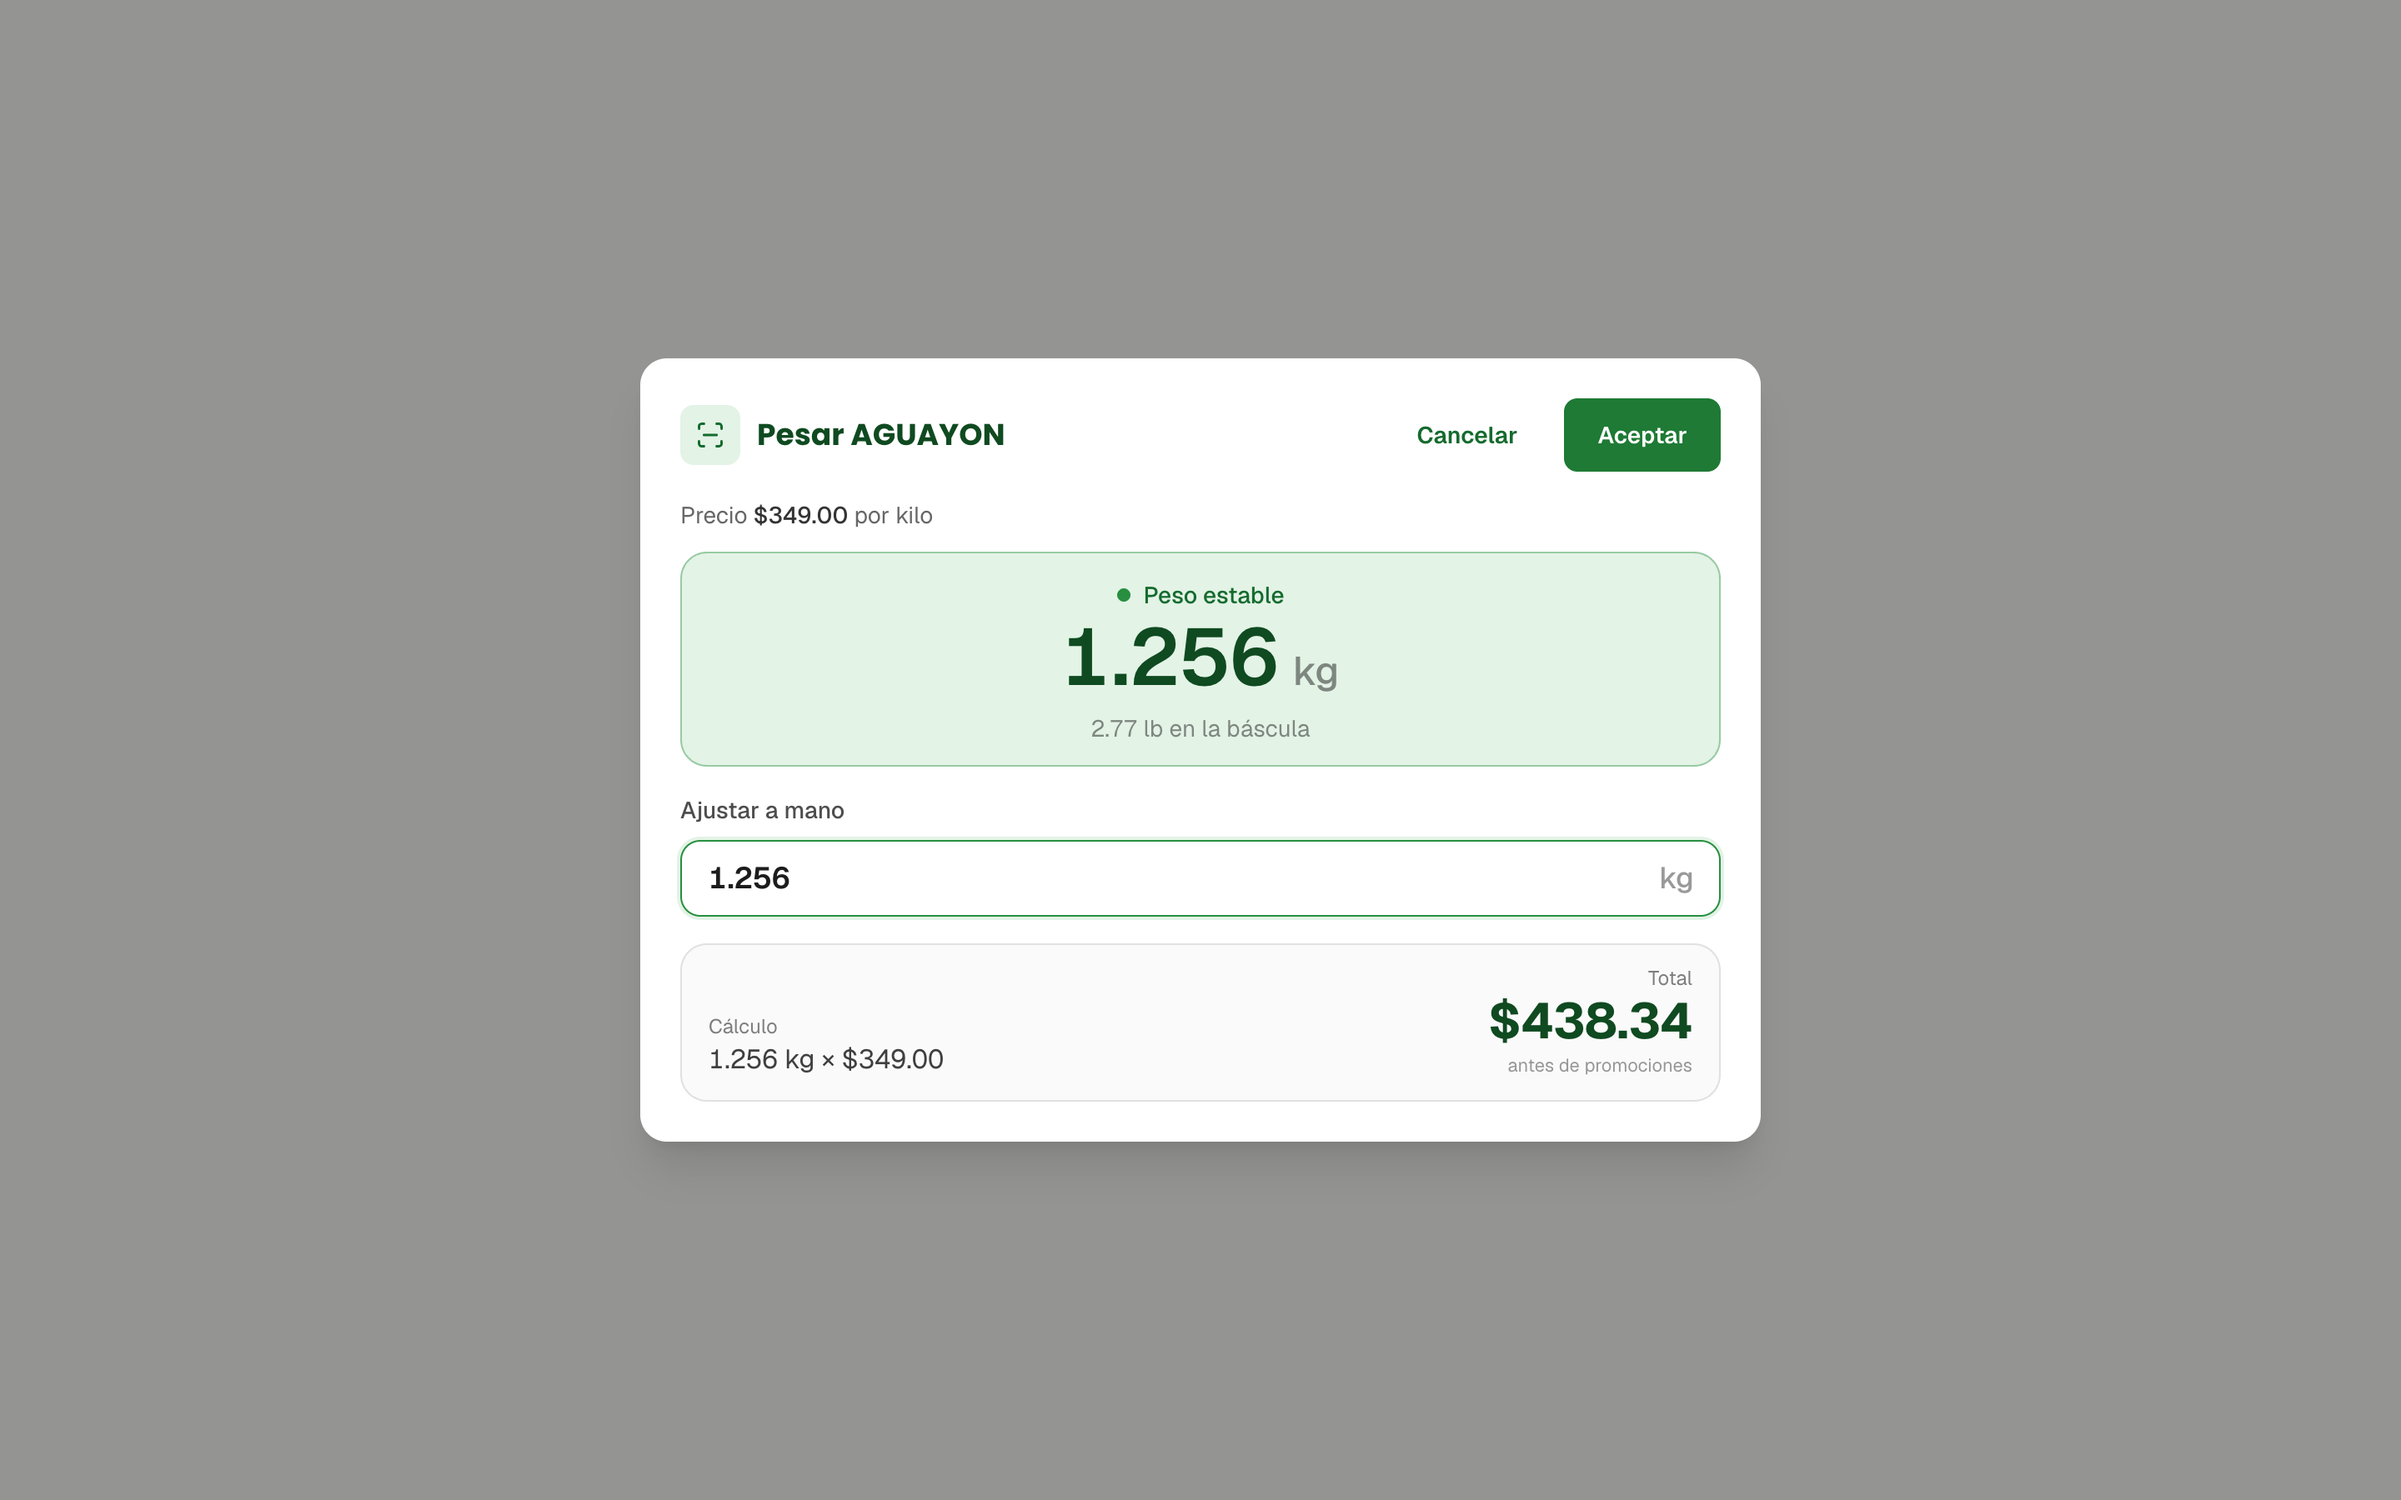
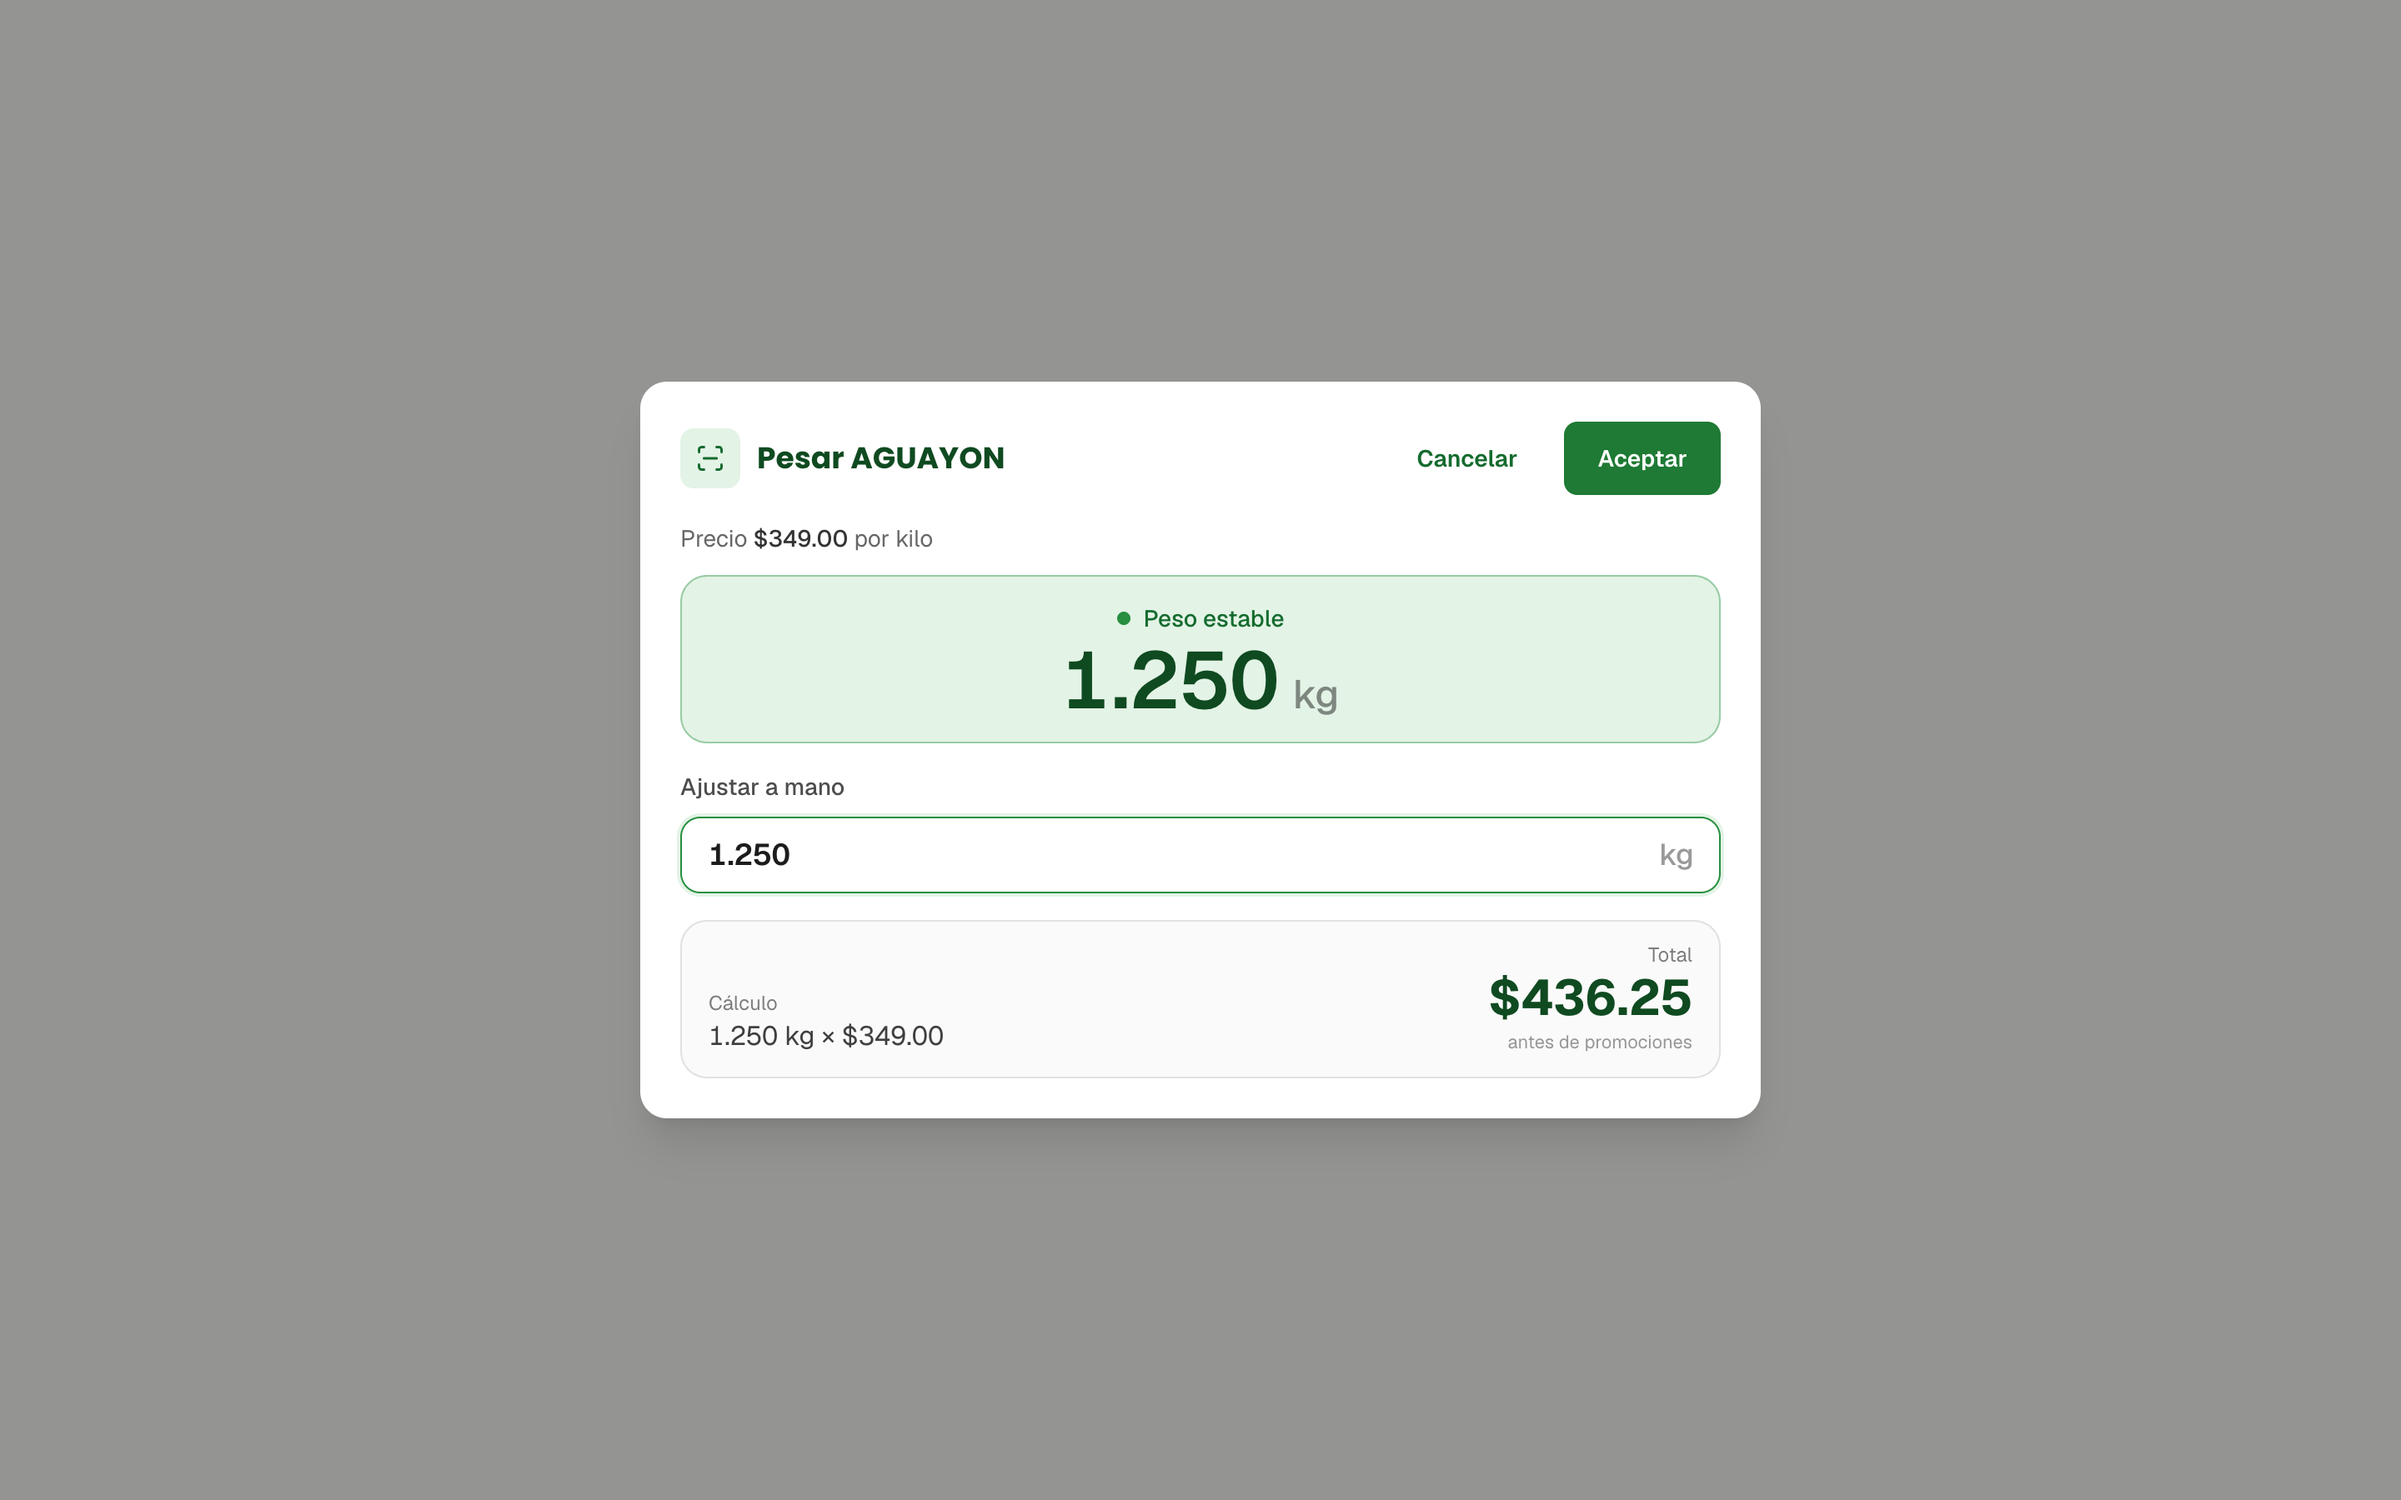
docs(presentacion): semana 11 sin conversión de libras

Changed region(s): [[0.25, 0.2178, 0.75, 0.7778]]

diff --git a/public/presentacion/semana-11.html b/public/presentacion/semana-11.html
@@ -616,15 +616,15 @@
       <div><span class="etiqueta">Semana 11 · Entrega de avances</span></div>
       <h1>La caja pesa en kilos y el ticket ya lleva la marca</h1>
       <p class="bajada">
-        Cinco puntos aplicados. El de fondo: la báscula manda libras y el sistema cobra siempre en
-        kilos, con el peso a la vista y listo para aceptar. Junto a eso, la pantalla de pesado se
+        Cinco puntos aplicados. El de fondo: el peso de la báscula aparece a la vista, en kilos
+        y listo para aceptar, y el total se calcula al instante. Junto a eso, la pantalla de pesado se
         simplificó y el ticket térmico ya lleva el logo de Mercados Titos, con un ticket de prueba
         para revisar la impresora.
       </p>
 
       <div class="metricas">
         <div class="metrica"><strong>5</strong><span>Puntos atendidos</span></div>
-        <div class="metrica"><strong>4</strong><span>Pantallas de ejemplo</span></div>
+        <div class="metrica"><strong>3</strong><span>Pantallas de ejemplo</span></div>
         <div class="metrica"><strong>3</strong><span>Pendientes por cerrar</span></div>
         <div class="metrica"><strong>0</strong><span>Puntos en pausa</span></div>
       </div>
@@ -644,8 +644,8 @@
       <div class="tarjetas">
         <article class="tarjeta revelar">
           <span class="icono"><svg width="22" height="22" viewBox="0 0 24 24" fill="none" stroke="currentColor" stroke-width="2" stroke-linecap="round" stroke-linejoin="round">M12 3v18M5 8l7-5 7 5M4 21h16</svg></span>
-          <h3>Siempre en kilos</h3>
-          <p>La báscula reporta libras y el sistema las convierte solo: 2.77 lb son 1.256 kg. El cobro y el ticket siempre van en kilos.</p>
+          <h3>Todo en kilos</h3>
+          <p>El peso, el cálculo y el ticket van en kilos con tres decimales: ya no hay que elegir unidad ni hacer cuentas aparte.</p>
         </article>
 
         <article class="tarjeta revelar">
@@ -679,10 +679,10 @@
       <div class="interior">
         <div class="encabezado revelar">
           <span class="numero">02 · El cambio de fondo</span>
-          <h2>Se pesa una vez y se cobra siempre en kilos</h2>
+          <h2>Se pesa una vez y el total sale solo</h2>
           <p>
-            La báscula de la caja trabaja en libras y los productos se venden por kilo. Esa
-            conversión ya no la hace nadie a mano.
+            Los productos se venden por kilo: el peso de la báscula llega a la pantalla y la cuenta
+            ya no se hace a mano.
           </p>
         </div>
 
@@ -690,22 +690,20 @@
           <div class="caso antes">
             <p class="rotulo">Lo que pasaba</p>
             <p class="detalle">
-              El cajero tenía que <strong>copiar el peso del visor</strong> al sistema y elegir la
-              unidad. Con libras de por medio, la conversión mental a kilos era una fuente de
-              errores en cada pesada.
+              El cajero tenía que <strong>copiar el peso del visor</strong> al sistema y hacer la
+              cuenta aparte. Cada pesada era un punto donde podía haber un error de captura.
             </p>
           </div>
 
           <div class="caso despues">
             <p class="rotulo">Lo que pasa ahora</p>
             <p class="detalle">
-              La báscula manda el peso y el sistema <strong>lo convierte a kilos</strong>. Cuando el
-              peso se estabiliza, solo se pulsa Aceptar; el total se calcula al instante con el
-              precio por kilo.
+              La báscula manda el peso y <strong>aparece en la pantalla, en kilos</strong>. Cuando se
+              estabiliza, solo se pulsa Aceptar; el total se calcula al instante con el precio por
+              kilo.
             </p>
             <p class="detalle">
-              Si no hay báscula, el peso se escribe a mano en <strong>kilos o libras</strong> y
-              también se convierte.
+              Si no hay báscula, el peso se <strong>escribe a mano</strong>, en kilos.
             </p>
           </div>
         </div>
@@ -713,16 +711,15 @@
         <div class="visor revelar" data-visor>
           <div class="pestanas" role="tablist">
             <button role="tab" data-tab="kilos-bascula" aria-selected="true">Con báscula</button>
-            <button role="tab" data-tab="kilos-manual">A mano, en kilos</button>
-            <button role="tab" data-tab="kilos-libras">A mano, en libras</button>
+            <button role="tab" data-tab="kilos-manual">A mano</button>
           </div>
 
           <div class="lamina visible" data-panel="kilos-bascula">
             <figure>
-              <img src="img/s11-modal-bascula.png" alt="Pantalla de pesado con el peso estable de 1.256 kg, el equivalente en libras y el total" />
+              <img src="img/s11-modal-bascula.png" alt="Pantalla de pesado con el peso estable de 1.250 kg y el total" />
               <figcaption>
-                <strong>El peso llega solo.</strong> Se muestra en kilos, en grande, con las libras
-                de la báscula como dato secundario. Cuando el peso es firme aparece "Peso estable" en
+                <strong>El peso llega solo.</strong> Se muestra en kilos, en grande. Cuando
+                el peso es firme aparece "Peso estable" en
                 verde y se habilita Aceptar. Producto de ejemplo, no de su catálogo.
               </figcaption>
             </figure>
@@ -732,32 +729,22 @@
             <figure>
               <img src="img/s11-modal-manual.png" alt="Pantalla de pesado sin báscula, con el peso escrito a mano en kilos" />
               <figcaption>
-                <strong>Sin báscula, se escribe el peso.</strong> Un aviso lo dice sin alarmar y el
-                selector Kilos/Libras aparece solo en este caso. El cálculo y el total se actualizan
-                mientras se teclea.
+                <strong>Sin báscula, se escribe el peso.</strong> Un aviso lo dice sin alarmar. El
+                cálculo y el total se actualizan mientras se teclea.
               </figcaption>
             </figure>
           </div>
 
-          <div class="lamina" data-panel="kilos-libras">
-            <figure>
-              <img src="img/s11-modal-libras.png" alt="Pantalla de pesado con 2.77 libras convertidas a 1.256 kilos" />
-              <figcaption>
-                <strong>Las libras se convierten a kilos.</strong> 2.77 lb son 1.256 kg, y así se
-                cobra. Al cambiar de unidad se conserva el mismo peso: solo cambia cómo se escribe.
-              </figcaption>
-            </figure>
-          </div>
         </div>
 
         <div class="reglas revelar">
           <div class="regla">
-            <h4>Se cobra siempre en kilos</h4>
-            <p>Sea cual sea la unidad con la que se capture, la venta, el total y el ticket llevan kilos con tres decimales.</p>
+            <h4>Se cobra en kilos</h4>
+            <p>La venta, el total y el ticket llevan kilos con tres decimales, sea que el peso llegue de la báscula o se escriba a mano.</p>
           </div>
           <div class="regla">
-            <h4>Redondeo al gramo</h4>
-            <p>Una libra equivale a 0.4536 kg; el peso convertido se redondea al gramo para que el total sea el mismo en la pantalla y en el ticket.</p>
+            <h4>El total se ve mientras se pesa</h4>
+            <p>Peso por precio por kilo, antes de promociones, aparece en la misma pantalla; al aceptar, el renglón entra al carrito con ese mismo importe.</p>
           </div>
           <div class="regla">
             <h4>Aceptar espera al peso firme</h4>
@@ -797,7 +784,7 @@
         </div>
         <div class="regla">
           <h4>Solo lo necesario</h4>
-          <p>Con báscula no se pide unidad y el campo manual baja de tamaño. Se quitó además el enlace a la guía de báscula del interior de la ventana.</p>
+          <p>Con báscula el campo manual baja de tamaño y solo sirve para ajustar. Se quitó además el enlace a la guía de báscula del interior de la ventana.</p>
         </div>
       </div>
     </section>

diff --git a/public/presentacion/index.html b/public/presentacion/index.html
@@ -263,14 +263,14 @@
             <span class="fecha">30 de septiembre de 2026</span>
             <h2>La caja pesa en kilos y el ticket ya lleva la marca<span class="insignia">Nueva</span></h2>
             <p class="resumen">
-              Cinco puntos aplicados. La báscula manda libras y el sistema cobra siempre en kilos,
-              con el peso a la vista y listo para aceptar. La pantalla de pesado se simplificó, y el
+              Cinco puntos aplicados. El peso de la báscula aparece a la vista, en kilos y listo
+              para aceptar, y el total se calcula al instante. La pantalla de pesado se simplificó, y el
               ticket térmico ya lleva el logo de Mercados Titos, con un ticket de prueba para
               revisar la impresora. Quedan pendientes el escáner de código de barras y la terminal
               bancaria.
             </p>
             <div class="chips">
-              <span class="chip">Siempre en kilos</span>
+              <span class="chip">Todo en kilos</span>
               <span class="chip">Peso en vivo</span>
               <span class="chip">Pantalla de pesado</span>
               <span class="chip">Logo en el ticket</span>
